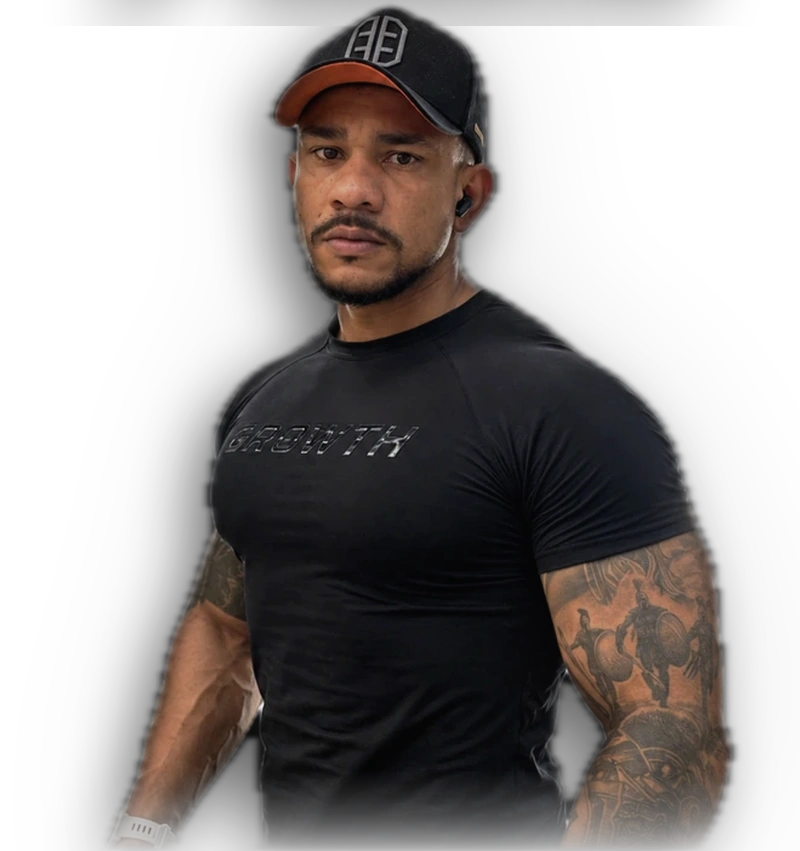
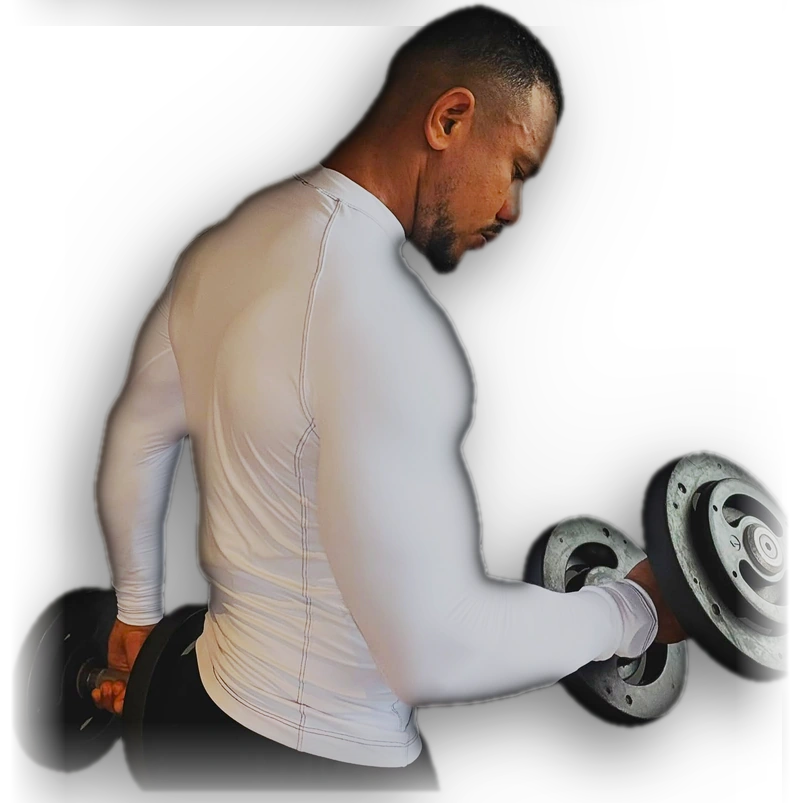
Nova foto do Emerson na hero
Foto com camisa branca e halter, recortada e integrada ao fundo escuro.
No desktop a camada fica ancorada à direita com altura relativa à hero,
para não cortar o halter em telas de 1280 e 1366 nem invadir o texto.

Claude-Session: https://claude.ai/code/session_01GAEskKzM2YSHQyvgLip5Wy

diff --git a/index.html b/index.html
@@ -5,6 +5,11 @@
 @media(max-width:767px){}
 .elementor-11 .elementor-element.elementor-element-478f856,.elementor-11 .elementor-element.elementor-element-40914582,.elementor-11 .elementor-element.elementor-element-167f723d{padding-top:100%!important}
 @media(max-width:767px){.elementor-11 .elementor-element.elementor-element-478f856,.elementor-11 .elementor-element.elementor-element-40914582,.elementor-11 .elementor-element.elementor-element-167f723d{padding-top:76%!important}}
+/* hero-subject desktop ancorado a direita (nao corta halter nem invade o texto) */
+@media(min-width:1025px){
+  .elementor-11 .elementor-element.elementor-element-4a8a6a40 img.hero-subject{inset:auto 3% 0 auto!important;left:auto!important;top:auto!important;right:3%!important;bottom:0!important;
+    height:96%!important;width:auto!important;max-width:52%!important;object-fit:contain!important;object-position:right bottom!important}
+}
 /* hero: prova social mais junta */
 .elementor-11 .elementor-element.elementor-element-f4c589c{--gap:0px 10px;--column-gap:10px;--row-gap:0px}
 @media(max-width:1024px){

diff --git a/_brief-imagens/hero-v2/montar.py b/_brief-imagens/hero-v2/montar.py
@@ -1,0 +1,32 @@
+# Hero com a foto nova do Emerson (camisa branca, rosca com halter): recorte Vision + integracao + fades laterais.
+from PIL import Image, ImageFilter, ImageChops
+import numpy as np
+B='_brief-imagens/hero-bg/'; V='_brief-imagens/hero-v2/'; OUT='public/wp-content/uploads/2024/11/'
+exec(open(B+'integrar.py').read().split('# desktop: recorte original')[0])     # traz integrar()
+cut=Image.open(V+'recorte.png').convert('RGBA'); cut=cut.crop(cut.getbbox())
+# camisa branca: segura as altas-luzes antes da integracao
+rgb=np.asarray(cut.convert('RGB'),np.float32); al=cut.getchannel('A')
+rgb=np.where(rgb>175,175+(rgb-175)*0.62,rgb)*0.97
+cut=Image.fromarray(np.clip(rgb,0,255).astype(np.uint8)).convert('RGBA'); cut.putalpha(al)
+def lateral(layer, x0, x1, largura):
+    """os halteres saem cortados pela foto original: some nas bordas do sujeito"""
+    a=np.asarray(layer.getchannel('A'),np.float32); W=a.shape[1]; xx=np.arange(W)[None,:]
+    f=np.clip((xx-x0)/largura,0,1)*np.clip((x1-xx)/largura,0,1)
+    layer.putalpha(Image.fromarray((a*f**0.8).astype(np.uint8))); return layer
+def colocar(size, escala, left, top):
+    W,H=size; s=cut.resize((round(cut.width*escala),round(cut.height*escala)),Image.LANCZOS)
+    c=Image.new('RGBA',size,(0,0,0,0)); c.alpha_composite(s.crop((0,0,min(s.width,W-left),min(s.height,H-top))),(left,top))
+    return c, left, left+s.width
+# desktop: camada recortada so do sujeito (posicionada por CSS a direita, altura relativa a hero)
+M=90                                                    # margem para brilho e sombra
+esc=1.0; s=cut.resize((round(cut.width*esc),round(cut.height*esc)),Image.LANCZOS)
+tela=Image.new('RGBA',(s.width+2*M, s.height+M),(0,0,0,0)); tela.alpha_composite(s,(M,M))
+d=integrar(tela,70,glow_amp=0.09,shadow_amp=0.45)
+d=lateral(d,M,M+s.width,80)
+d=d.crop(d.getbbox())
+d.save(V+'desktop-emerson.png'); d.save(OUT+'ng-car12ol1-emerson.webp',quality=94,method=6)
+# mobile: camada no fluxo, 800 de largura, cintura para cima
+esc=780/cut.width; m,x0,x1=colocar((800,round(cut.height*esc)+10),esc,10,0)
+m=lateral(integrar(m,80,glow_amp=0.09,shadow_amp=0.45),x0,x1,55)
+m.save(V+'mobile-emerson.png'); m.save(OUT+'ng-carol1-mi12ble-emerson.webp',quality=94,method=6)
+print('desktop',d.size,'mobile',m.size)
